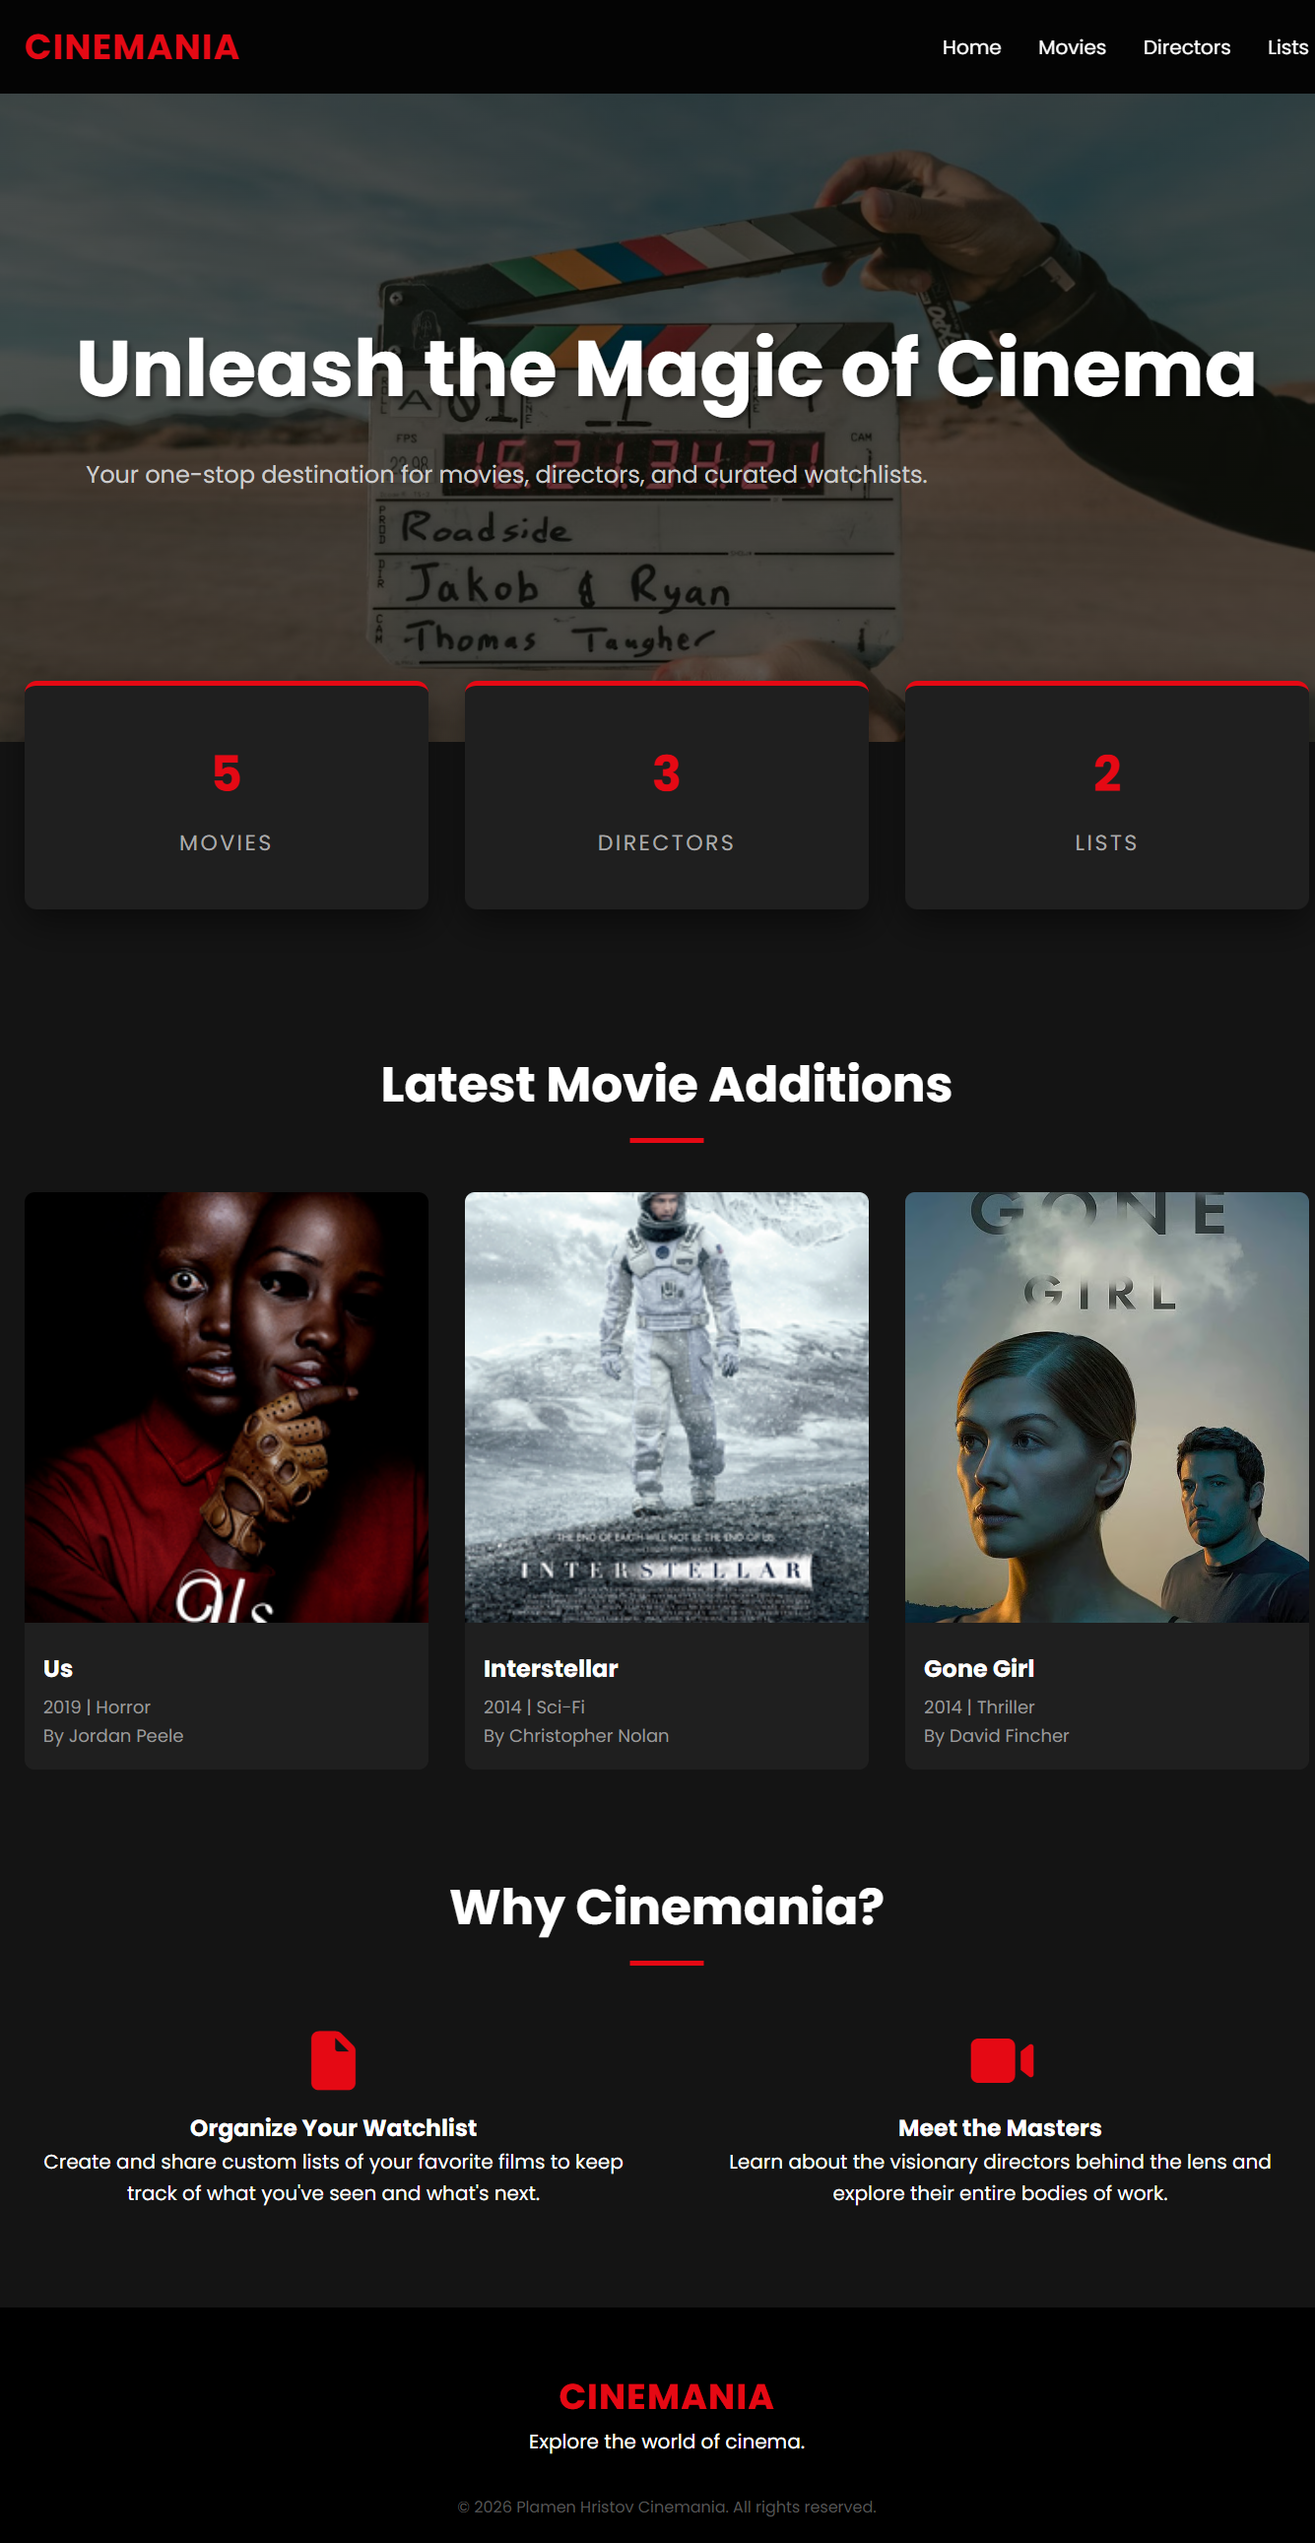
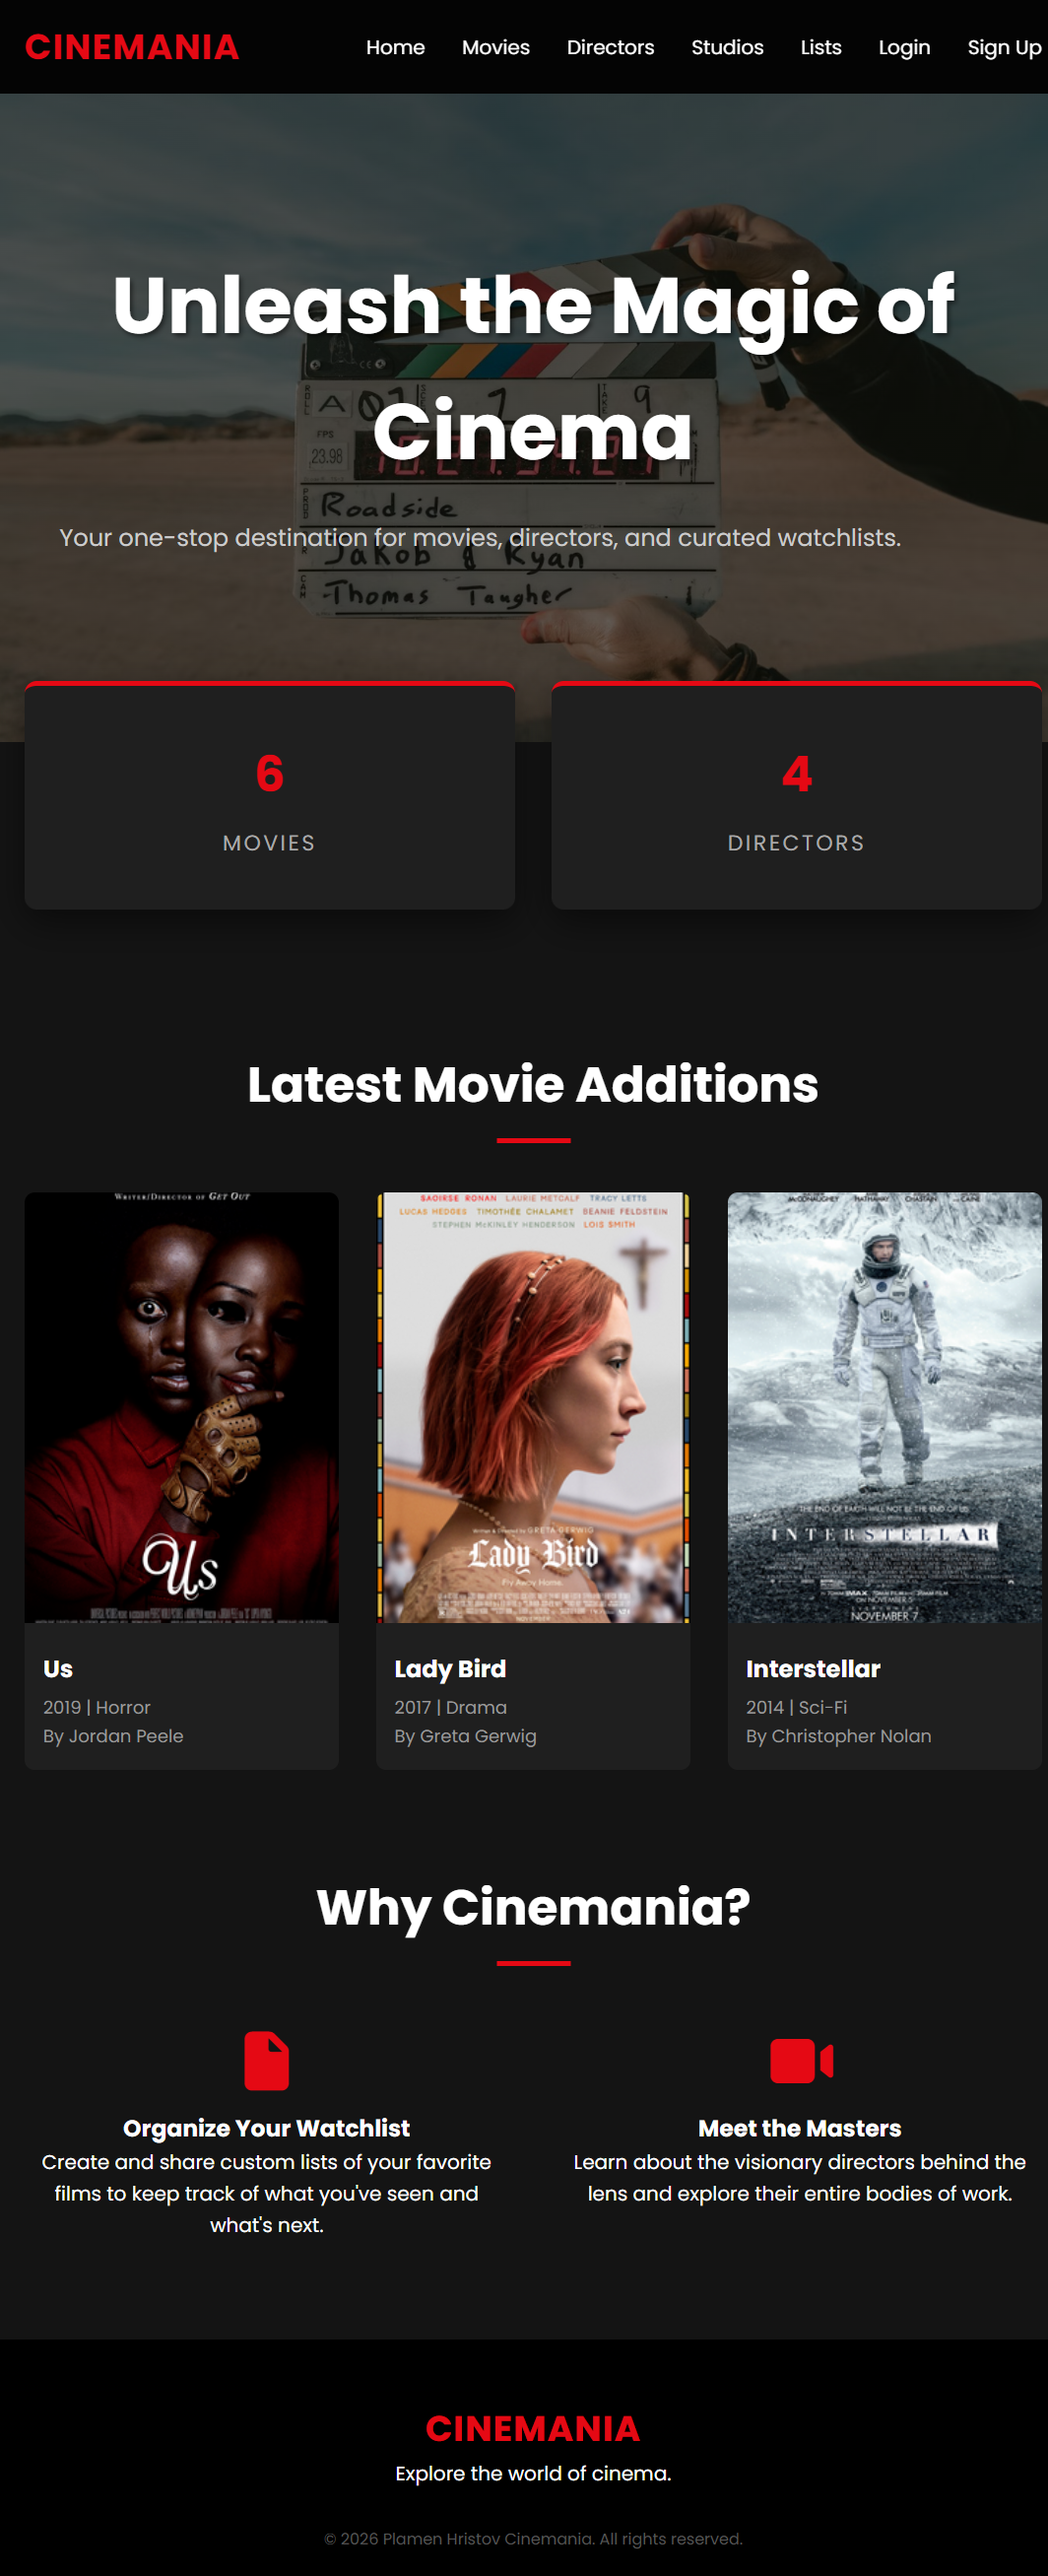
chore: addition to readme

diff --git a/README.md b/README.md
@@ -61,19 +61,33 @@ You can now access the application at `http://127.0.0.1:8000/`.
 
 ### Home Page
 ![Home Page](screenshots/home.png)
+* The home page welcomes you to Cinemania and provides an overview of the application's features. You can navigate to different sections using the navigation bar at the top.
+* If you are not logged in, you can click on **Login** to access your account or **Sign up** to create a new account.
+
+### Signing up
+Using the sign-up form, you can create a new account to start your journey.
+![Sign Up](screenshots/sign_up.png)
+
+### Logging in
+If you already have an account, you can log in using the login form.
+![Login](screenshots/login.png)
 
 ### Movie Management  
 
 #### Viewing Movies
-* Click on **Movies** in the navigation to view the movies you have added. There you can manage your movies and explore their details.  
-* Click on **Add Movie** to add a new movie to your collection. 
+* Click on **Movies** in the navigation to view the movies added to the database. There you can manage the movies and explore their details.  
+* Click on **Add Movie** to add a new movie to the database. Only users that have logged in and have the appropriate permissions can add movies to the database.
 * Type in the search bar to filter movies by title. Click on **Search** to apply the filter.
 * Click on the **movie poster** to view details about the movie. 
 ![Movies List](screenshots/movies_list.png)
 
 #### Movie Details 
+Here you can view the movie details.  
+Only users that have **logged in** and have the appropriate **permissions** can edit or delete movies from the database.
 * Click on **Edit Movie** to edit the movie details.  
 * Click on **Delete** to delete the movie.  
+* Click on **add to watched** to add the movie to your watched movies.
+* If the movie has studios associated with it, click on the studio name to view details about the studio.
 * Click on **Directed by** to view the director's details.
 * Click on **Back to Movies** to return to the movies.
 
@@ -101,14 +115,16 @@ Click on **Cancel** to discard the changes you made to the movie details.
 
 ### Director Tracking
 Keep track of all the directors whose work you have seen.
-* Click on **Directors** in the navigation to view the directors you have added.  
+* Click on **Directors** in the navigation to view the directors you have added.
+* Only users that are logged in and have the appropriate permissions can add and edit directors.
 * Click on **Add Director** to add a new director to your collection.
 * Type in the search bar to filter directors by name. Click on **Search** to apply the filter.
 * Click on the director's picture to view details about the director.
 ![Directors](screenshots/directors_list.png)
 
 #### Director Details
-Here you can view the director's details and their filmography you have seen.  
+Here you can view the director's details and their filmography that have been added to the database.
+Only users that have **logged in** and have the appropriate **permissions** can edit or delete directors from the database.
 * Click on **Edit** to edit the director details.  
 * Click on **Delete** to delete the director.  
 * Click on **Back to Directors** to return to the directors list.
@@ -152,3 +168,14 @@ Click on **Discard Changes** to discard the changes you made to the list details
 Click on **Yes, delete list** to confirm the deletion.  
 Click on **No, keep list** to cancel the deletion.
 ![Delete List](screenshots/list_delete.png)
+
+### Studios
+* Click on **Studios** in the navigation to view the studios added to the database.
+* Only users that have logged in and have the appropriate permissions can add and edit studios.
+* Clcik on **API documentation** to add studios to the database using the API endpoint.
+* Click on the particular studio to view details about the studio and the movies associated with it.
+![Studios View](screenshots/studios_list.png)
+
+#### Studio Details
+Here you can view the studio details and the movies associated with it.
+![Studio Details](screenshots/studio_detail.png)
